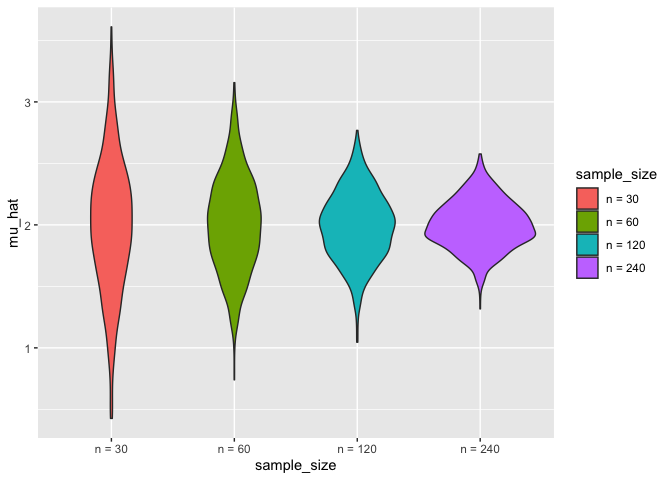
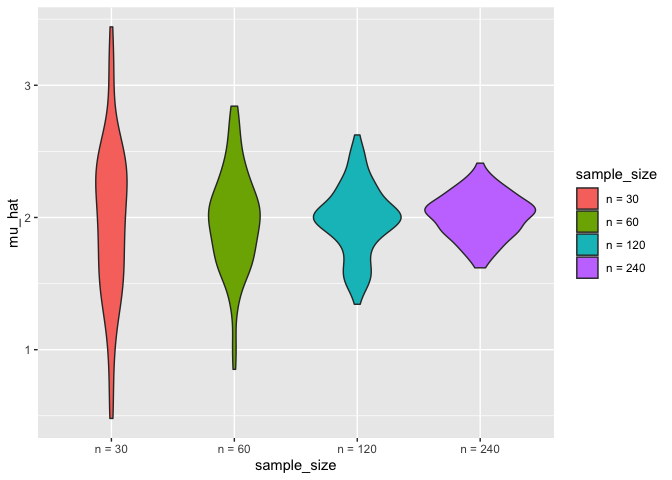
end of class

diff --git a/simulation.md b/simulation.md
@@ -99,26 +99,40 @@ for (i in 1:4) {
 }
 ```
 
+combine:
+
 ``` r
 sim_results = 
   tibble(sample_size = c(30, 60, 120, 240)) %>% 
   mutate(
-    output_lists = map(.x = sample_size, ~rerun(1000, sim_mean_sd(n = .x))),
+    output_lists = map(.x = sample_size, ~rerun(100, sim_mean_sd(n = .x))),
     estimate_dfs = map(output_lists, bind_rows)) %>% 
   select(-output_lists) %>% 
-  unnest(estimate_dfs)
+  unnest(estimate_dfs) # expend
 ```
+
+## do some dataframe
 
 ``` r
 sim_results %>% 
   mutate(
     sample_size = str_c("n = ", sample_size),
-    sample_size = fct_inorder(sample_size)) %>% 
+    sample_size = fct_inorder(sample_size)) %>% # n in the right order
   ggplot(aes(x = sample_size, y = mu_hat, fill = sample_size)) + 
   geom_violin()
 ```
 
 ![](simulation_files/figure-gfm/unnamed-chunk-9-1.png)<!-- -->
+
+``` r
+sim_results %>% 
+  group_by(sample_size) %>% 
+  summarize(
+    avg_samp_mean = mean(estimate), # estimate is "mean" in lecture
+    sd_samp_mean = sd(estimate)
+    
+  )
+```
 
 ``` r
 sim_results %>% 
@@ -137,11 +151,11 @@ sim_results %>%
 
 | parameter  | sample\_size | emp\_mean | emp\_var |
 |:-----------|-------------:|----------:|---------:|
-| mu\_hat    |           30 |     1.996 |    0.291 |
-| mu\_hat    |           60 |     2.011 |    0.149 |
-| mu\_hat    |          120 |     1.990 |    0.079 |
-| mu\_hat    |          240 |     2.002 |    0.039 |
-| sigma\_hat |           30 |     2.972 |    0.144 |
-| sigma\_hat |           60 |     2.998 |    0.077 |
-| sigma\_hat |          120 |     2.989 |    0.038 |
-| sigma\_hat |          240 |     2.993 |    0.019 |
+| mu\_hat    |           30 |     1.969 |    0.354 |
+| mu\_hat    |           60 |     1.979 |    0.143 |
+| mu\_hat    |          120 |     1.982 |    0.071 |
+| mu\_hat    |          240 |     2.014 |    0.027 |
+| sigma\_hat |           30 |     3.001 |    0.157 |
+| sigma\_hat |           60 |     2.952 |    0.053 |
+| sigma\_hat |          120 |     2.975 |    0.032 |
+| sigma\_hat |          240 |     3.018 |    0.014 |
